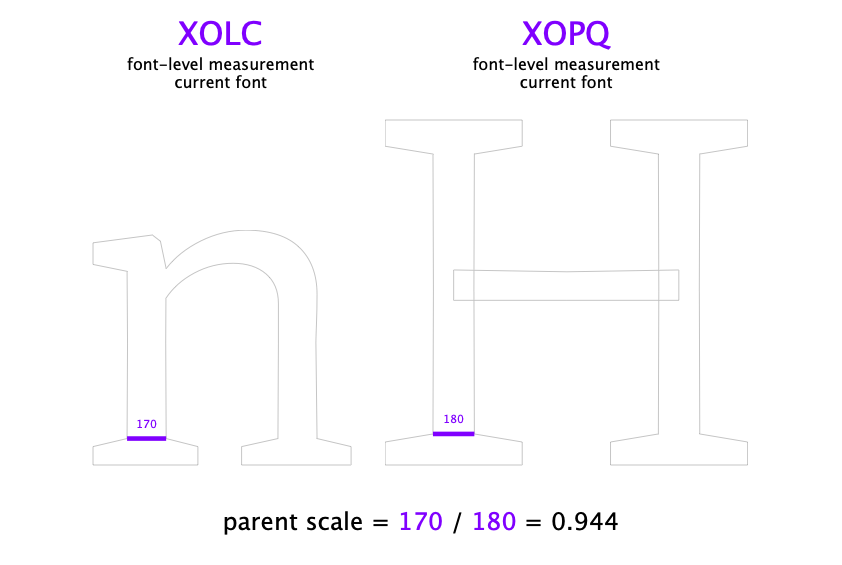
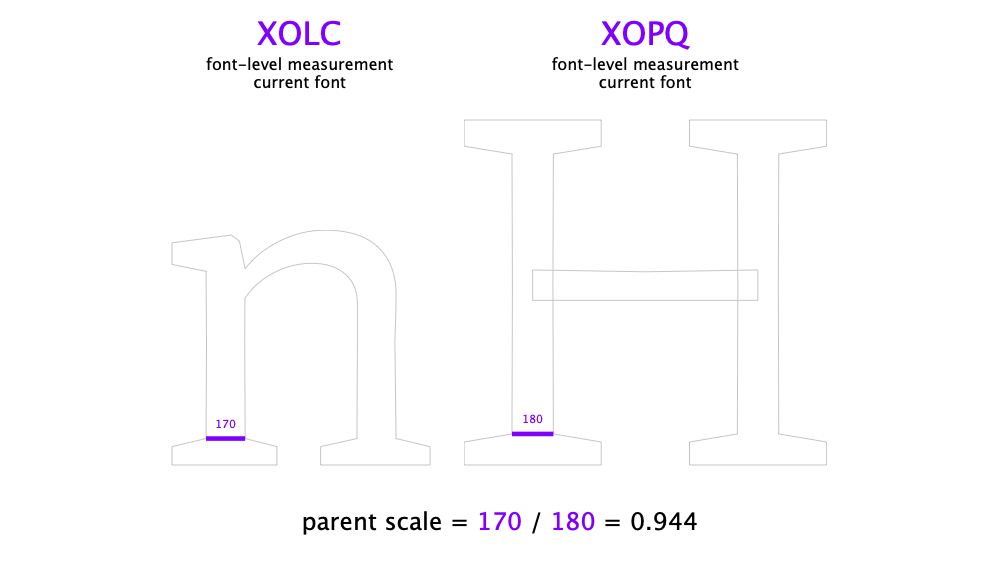
[docs] removing illustrations from measurement scales documentation

diff --git a/docs/_py/measurement-scales.py b/docs/_py/measurement-scales.py
@@ -96,11 +96,15 @@ gA = f[glyphNameA]
 glyphNameB = measurements['font'][B]['glyph 1']
 gB = f[glyphNameB]
 
-W, H = sizes('A4Landscape')
+W = 1000
 H = f.info.capHeight*s + ty
 yTop = H - yt
 
 newPage(W, H)
+with savedState():
+    fill(1)
+    rect(0, 0, width(), height())
+
 save()
 
 mx = (width() - (gA.width + gB.width) * s) / 2
@@ -130,7 +134,7 @@ A      = 'XOLC' # glyph-level
 B      = 'XOLC' # font-level
 glyphA = 'u'
 
-src = 'wght400'
+src = 'XOLC293' # 'wght400'
 
 txtA = 'glyph-level measurement\ncurrent font'
 txtB = 'font-level measurement\ncurrent font'
@@ -154,10 +158,14 @@ fontScale = valueUnitsA / valueUnitsB
 
 gB = f[measurements['font'][B]['glyph 1']]
 
-W, H = sizes('A4Landscape')
 H = f.info.xHeight*s + ty
 yTop = H - yt
+
 newPage(W, H)
+with savedState():
+    fill(1)
+    rect(0, 0, width(), height())
+
 save()
 fontSize(fs)
 
@@ -214,6 +222,10 @@ valueUnitsB = mB.measure(fB)
 defaultScale = valueUnitsA / valueUnitsB
 
 newPage(W, H)
+with savedState():
+    fill(1)
+    rect(0, 0, width(), height())
+
 save()
 fontSize(fs)
 

diff --git a/docs/_reference/measurement-scales-thresholds.md b/docs/_reference/measurement-scales-thresholds.md
@@ -20,8 +20,6 @@ The **p-scale** (`A÷B`) is the scale of a font-level measurement (`A`) in relat
 
 Example:
 
-![]({{ site.url }}/images/measurement-scale_1.png){: .img-fluid }
-
 | ref.    | description            | name   | glyph | source  | value |
 |---------|------------------------|--------|-------|---------|-------|
 | `A`     | font-level measurement | `XOLC` | `n`   | current | 170   |
@@ -38,8 +36,6 @@ The **f-scale** (`A÷B`) is the scale of a glyph-level measurement (`A`) in rela
 
 Example:
 
-![]({{ site.url }}/images/measurement-scale_2.png){: .img-fluid }
-
 | ref.    | description             | name   | glyph | source  | value |
 |---------|-------------------------|--------|-------|---------|-------|
 | `A`     | glyph-level measurement | `XOLC` | `u`   | current | 168   |
@@ -55,8 +51,6 @@ Example:
 The **d-scale** (`A÷B`) is the scale of a font- or glyph-level measurement (`A`) in relation to the same measurement in the default font (`B`).
 
 Example:
-
-![]({{ site.url }}/images/measurement-scale_3.png){: .img-fluid }
 
 | ref.    | description             | name   | glyph | source  | value |
 |---------|-------------------------|--------|-------|---------|-------|
